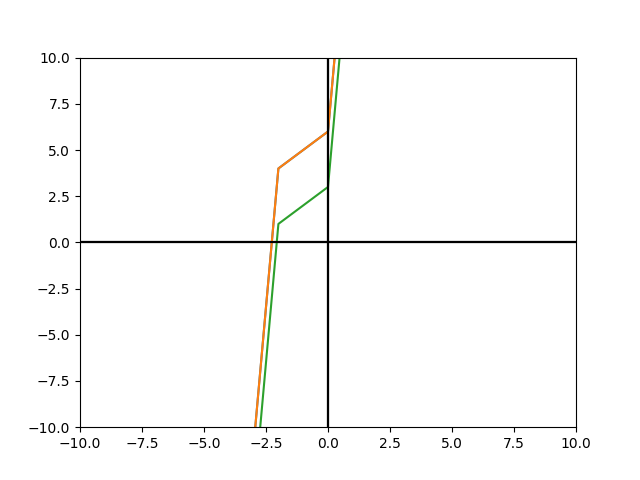
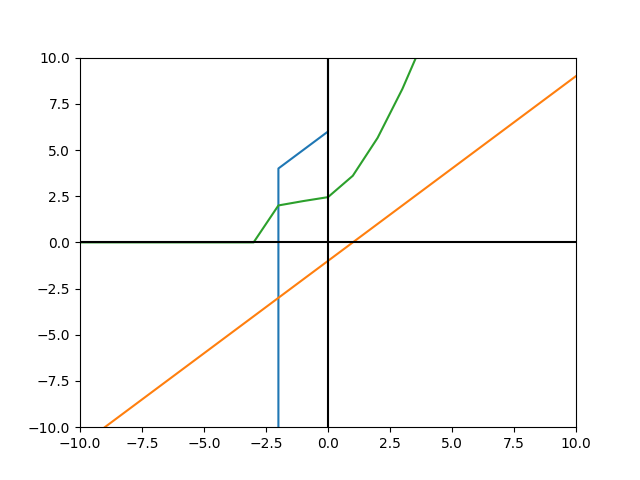
arreglo bugs

diff --git a/plugins/funciones/graficador.py b/plugins/funciones/graficador.py
@@ -1,18 +1,28 @@
+import math
+
 import numpy as np
 from matplotlib import pyplot
 
 class Graficador:
     def __init__(self):
         self.rango = range(-11, 15)
+        self.funcion_valida = True
 
     def funcion(self, x, funcion):
-        funcion_adaptada = funcion.replace('x', str(x))
+        if 'np.sqrt' in funcion:
+            funcion_adaptada = funcion.replace('x', f'({str(x)})')
+            print(eval(funcion_adaptada))
+            if math.isnan(eval(funcion_adaptada)):
+                self.funcion_valida = False
+                return 0
+        else:
+            funcion_adaptada = funcion.replace('x', f'({str(x)})')
+        print(funcion_adaptada)
         print(f'{funcion_adaptada}: {eval(funcion_adaptada)}')
         return eval(funcion_adaptada)
     
     def graficar(self, *args):
         for i in range(len(args)):
-            print(i)
             pyplot.plot(self.rango, [self.funcion(j + 1, args[i]) for j in self.rango])
         pyplot.axhline(0, color="black")
         pyplot.axvline(0, color="black")

diff --git a/plugins/user_commands/limites.py b/plugins/user_commands/limites.py
@@ -14,6 +14,7 @@ async def startComando(client, message):
     print(f'funciones sin espacio: {funciones}')
     funciones = [funcion.replace('^', '**') if '^' in funcion else funcion for funcion in funciones]
     print(f'funciones reemplazadas: {funciones}')
+    funciones = [funcion.replace('sqrt', 'np.sqrt') if 'sqrt' in funcion else funcion for funcion in funciones]
     graficador = Graficador()
     graficador.graficar(*funciones)
     

diff --git a/generationGraphics.py b/generationGraphics.py
@@ -1,6 +1,7 @@
 from matplotlib import pyplot
 # Función cuadrática.
 def f1(x):
+    print(x)
     print(x**4 + 5)
     return x**4 + 5
 # Función lineal.
